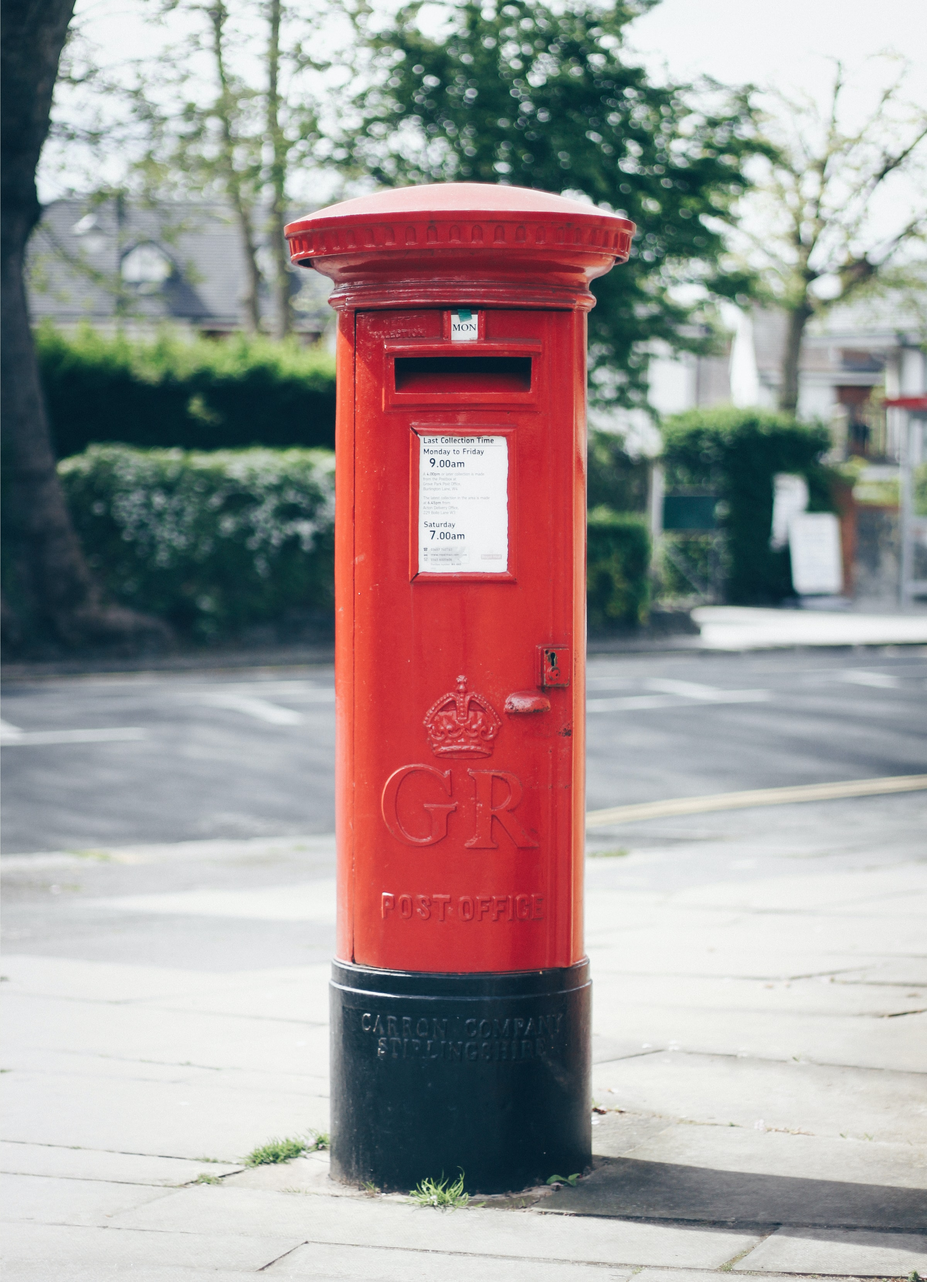
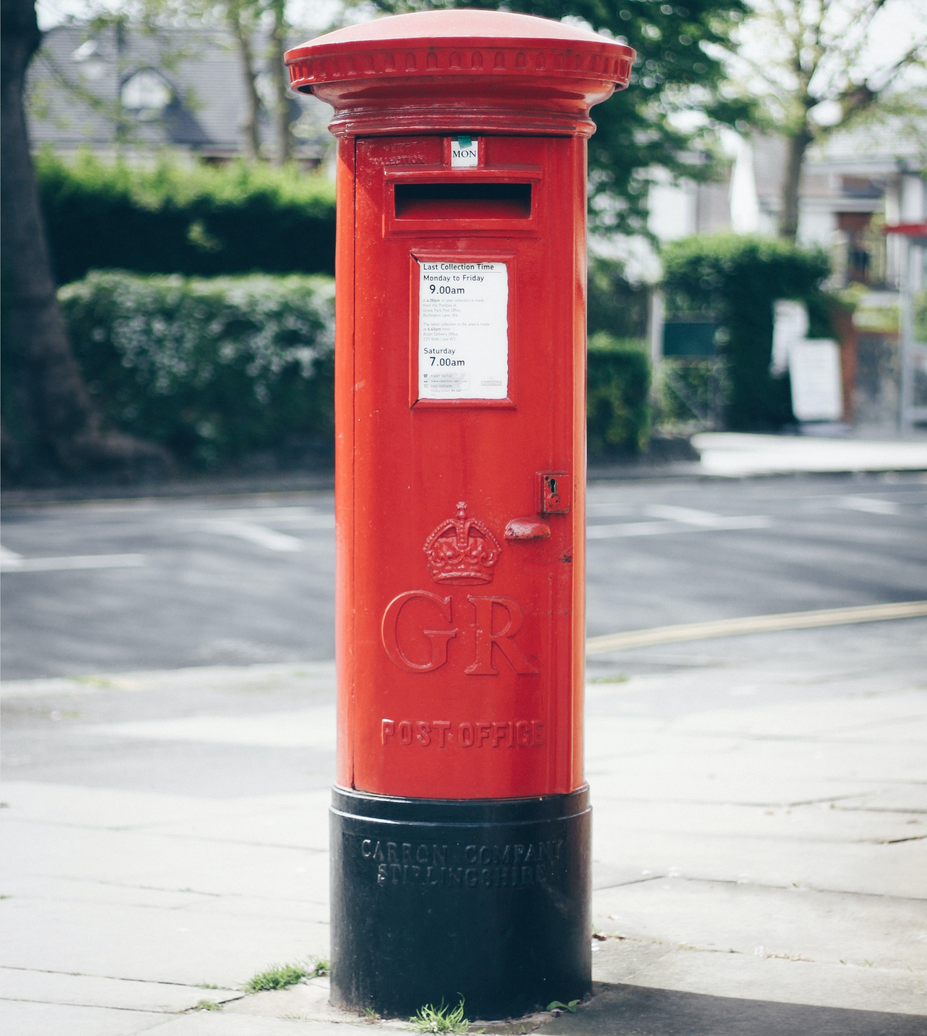
amended hero title to be more visible against the background image

diff --git a/assets/css/style.css b/assets/css/style.css
@@ -150,25 +150,29 @@ nav a:hover {
 /*Hero Image*/
 
 .hero-container {
-position: relative;
+    position: relative;
 }
 
 .hero-image img {
     display: block;
     width: 100%;
-    height: 40vh;
-    background-size: contain;
+    height: 50vh;
     border: 8px solid #03204f;
+    object-fit: fill;
 }
 
 .title {
     position: absolute;
-    top: 25%;
-    bottom: 25%;
-    left: 25%;
-    right: 25%;
+    top: 50%;
+    left: 50%;
+    -ms-transform: translate(-50%, -50%);
+    transform: translate(-50%, -50%);
     text-align: center;
     font-size: 1.5em;
+    background-color: #c7c9d1;
+    border-radius: 15%;
+    border: 2px solid #03204f;
+    padding: 2.5%;
 }
 /*About Us*/
 
@@ -311,7 +315,7 @@ position: relative;
 .stay_image {
     background-image: url(../images/site_images/stay_in_touch.jpg);
     background-size: 100% 100%;
-    border: 4px solid #734d30;;
+    border: 4px solid #734d30;
 }
 
 .stay_link {
@@ -346,11 +350,6 @@ footer {
 
 /*Stay In Touch Page*/
 
-form {
-    margin: 5%;
-    padding: 5%;
-}
-
 .form_icons i {
     font-size: 2em;
     text-align: center;
@@ -361,12 +360,16 @@ form {
     flex-direction: column;
     justify-content: center;
     align-items: center;
-    padding: 5%;
+    margin: 5%;
 }
 
 .form_description {
     text-align: center;
     margin-top: 5%;
+}
+
+.newsletter-sign-up {
+    line-height: 3em;
 }
 
 input, textarea {

diff --git a/stay_in_touch.html b/stay_in_touch.html
@@ -69,7 +69,7 @@
             <p class="form_description">Sign up to our <strong>newsletter</strong> to get the latest crafty ideas and projects sent directly to your inbox</p>
             <form action="#" method="POST" name="newsletter-sign-up">
                 <fieldset>
-                    <legend>Newsletter Sign Up</legend>
+                    <legend class="newsletter-sign-up">Newsletter Sign Up</legend>
                         <label for="fname">First Name:</label> 
                         <input type="text" id="fname" name="fname">
                         <br>
